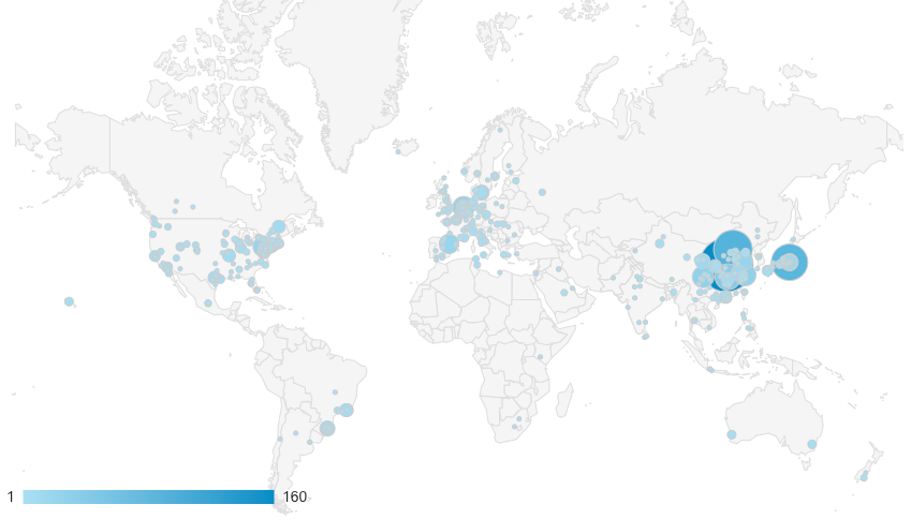
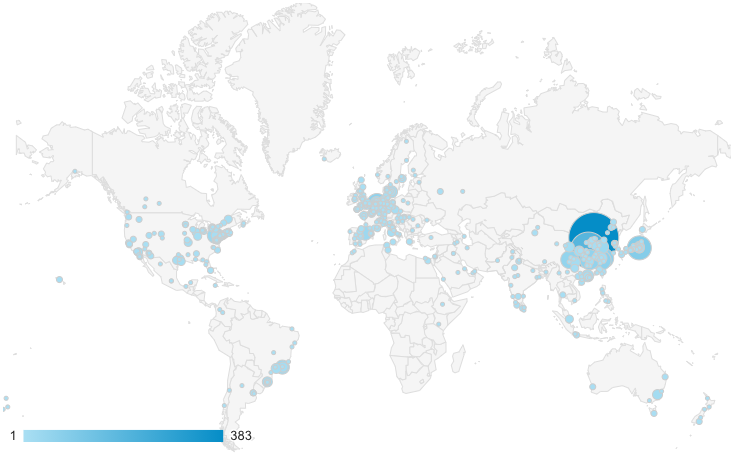
visitors

diff --git a/index.md b/index.md
@@ -82,7 +82,7 @@ title:
                                     </div>
                                     <div class="col-xs-6 col-md-12 profile-picture">
                                     <img src="images/AcycleVisitors.png" alt= "users" class="rounded"></div>
-                                    <p>Total: 3,621 unique visitors <a href="https://analytics.google.com" target="_blank" rel="noopener noreferrer"> (data source)</a>.</p>
+                                    <p>Total: 2,736 unique visitors <a href="https://analytics.google.com" target="_blank" rel="noopener noreferrer"> (data source)</a>.</p>
                                     <p><img src="https://img.icons8.com/small/16/000000/clock.png" height="32" width="32"> Sept 2018 – Feb 2020</p>
                                 </section>
                                 <section id = "figures">
